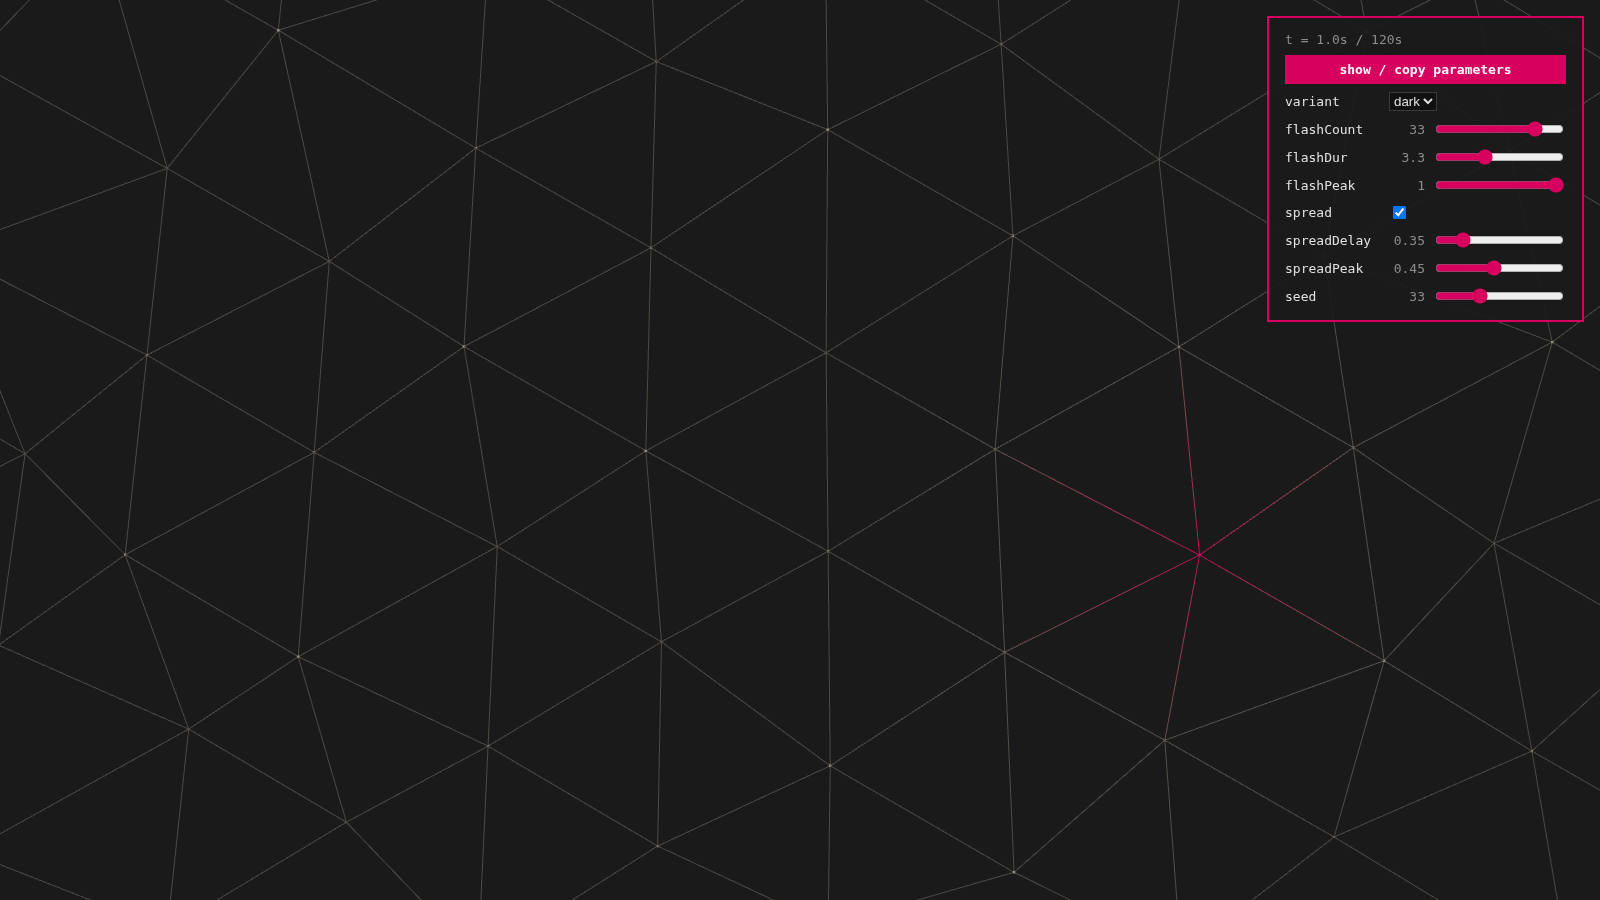
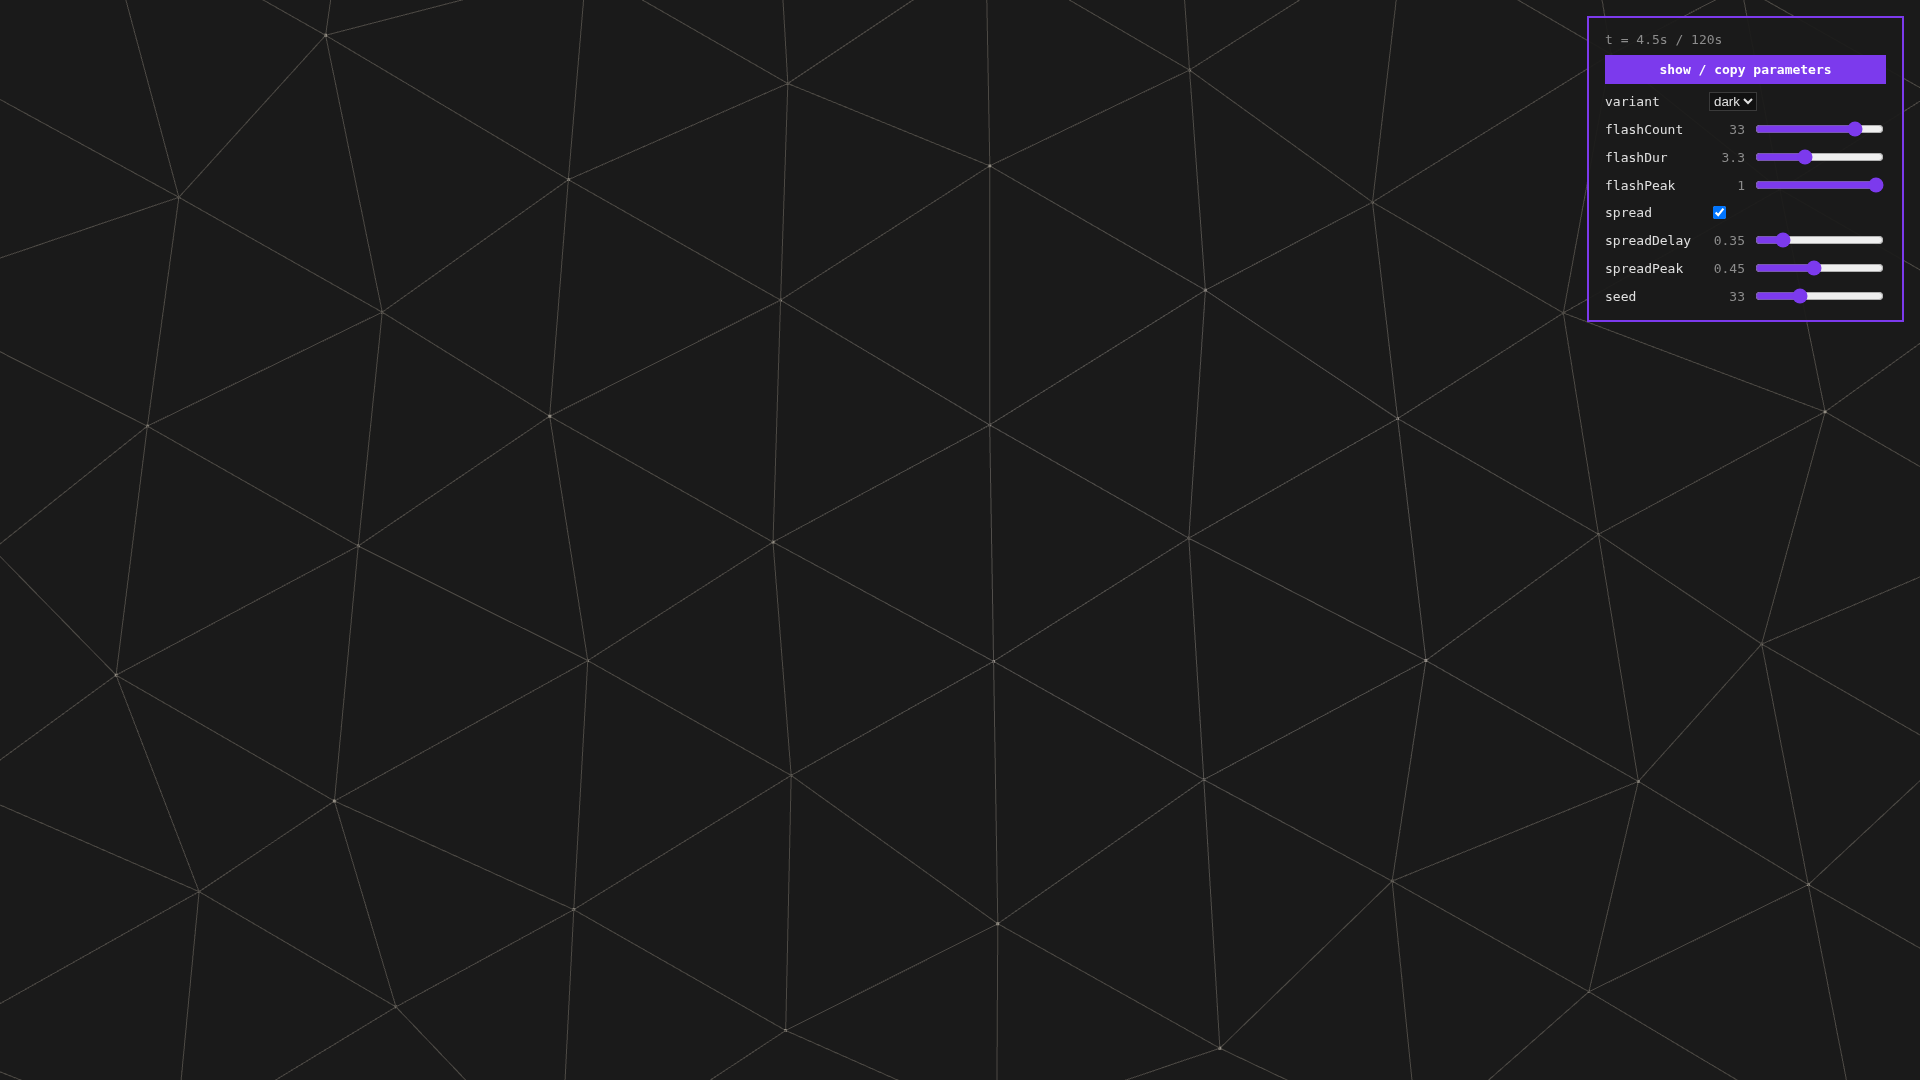
showcase: violet flash-preview + a rig `url` scene for browser shots
The one deferred image from the re-shoot (#243): flash-preview.png, the flash-mesh
tuning page. Its source was already fixed there (build-preview.sh red->violet); this
finishes it now that the capture is unblocked.

Root cause of the earlier block: chromium's OWN headless screenshot is broken in
claude's env — the paint/CDP path hangs (even the wallpaper render.js puppeteer path
times out on page.goto), while plain --dump-dom works, so the binary runs but can't
produce a frame. puppeteer's pinned chrome (148) vs installed (149) is within
tolerance, so it's not a version mismatch — it's the render pipeline.

Workaround, baked into the rig as a new `url` scene: render the page with chromium as
a Wayland client INSIDE the nested sway and capture with grim (the path that already
works), instead of chromium's headless screenshot. WebGL renders via the NVIDIA EGL
stack (swiftshader fallback); sway-side `fullscreen` fills the output with no
gaps/border and no chromium "exit full screen" banner. So flash-preview is now
reproducible via `hestia-shot url <file> out.png`, and future browser shots are too.

Also generalises the rig's capture: per-scene WAIT_MATCH (which app_id to wait for)
+ SETTLE (paint delay), and an EXTRA_CFG hook for scene-specific sway rules.

With this, all 12 showcase images are violet + current.

diff --git a/docs/claude-env-parity-design.md b/docs/claude-env-parity-design.md
@@ -178,7 +178,20 @@ hestia-shot desktop  out.png     # waybar + mesh wallpaper + tiled vifm (composi
 hestia-shot vifm     out.png [p] # vifm alone (any single-app scene)
 hestia-shot ranger|yazi out.png
 hestia-shot app "cmus" out.png   # any command in a themed kitty
+hestia-shot url  <url|file> out.png   # a web page (chromium in-sway; re-shot flash-preview)
 ```
+
+- **Driven scenes:** a `HESTIA_HOOK` env command runs after the window maps and
+  before capture (the vifm scene launches with a fixed `--server-name`, so the hook
+  can `vifm --remote -c :gs` etc. to reach a state). This is how `vifm-preview`/`-gc`/
+  `-gs`/`-gd` were re-shot against a throwaway git demo repo.
+- **The `url` scene** renders a page with **chromium as a Wayland client inside the
+  nested sway**, captured by grim — **not** chromium's own `--headless --screenshot`,
+  which is **broken in claude's env** (the paint/CDP path hangs; even the wallpaper
+  `render.js` puppeteer path times out on `page.goto`, while plain `--dump-dom`
+  works). WebGL renders via the NVIDIA EGL stack (swiftshader fallback); sway-side
+  `fullscreen` fills the output with no gaps/border and no chromium "exit fullscreen"
+  banner. This is how the flash-mesh tuning-page shot is produced.
 
 What made it work (the load-bearing details):
 - **`WLR_BACKENDS=headless` + `WLR_RENDERER=pixman`** — a virtual output, software